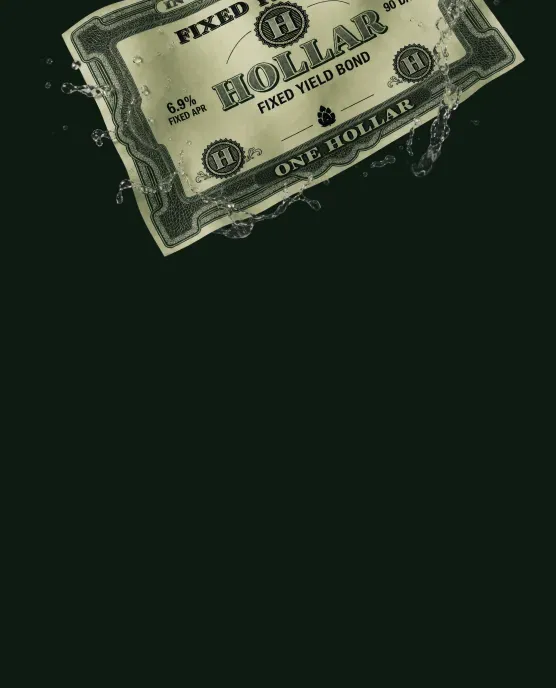
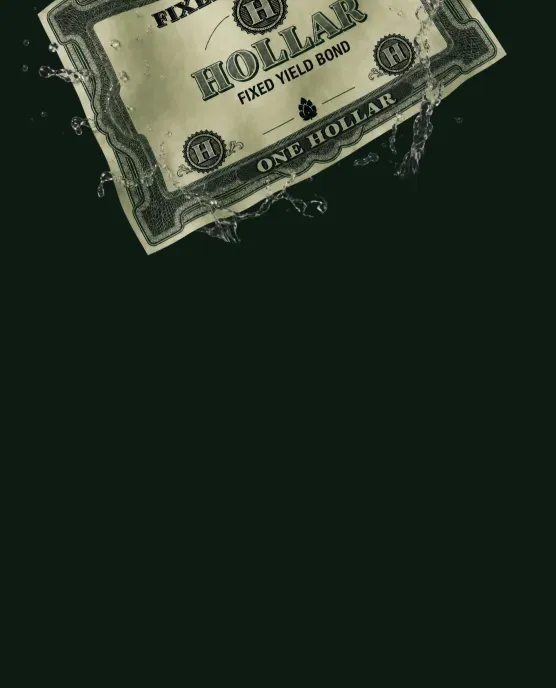
Merge pull request #3829 from galacticcouncil/chore/dynamic-apr
Stable Bonds dynamic APR

Pull request: Stable Bonds dynamic APR

Changed region(s): [[0.0612, 0.0, 0.9478, 0.3663]]

diff --git a/apps/main/src/components/GigaNews/GigaNews.tsx b/apps/main/src/components/GigaNews/GigaNews.tsx
@@ -1,16 +1,39 @@
 import { Close, Flame } from "@galacticcouncil/ui/assets/icons"
-import { Icon, MorphLabel, PromoteBanner } from "@galacticcouncil/ui/components"
+import {
+  Icon,
+  MorphLabel,
+  PromoteBanner,
+  PromoteBannerProps,
+} from "@galacticcouncil/ui/components"
+import { HOLLAR_BOND_25_08_26_ID } from "@galacticcouncil/utils"
 import { useNavigate } from "@tanstack/react-router"
 import { useCallback, useEffect, useRef, useState } from "react"
 import { useTranslation } from "react-i18next"
 
+import { useBondData } from "@/api/bonds"
 import {
   SGigaNewsContainer,
   SGigaNewsToggleButton,
   SStackLayer,
   SStackRoot,
 } from "@/components/GigaNews/GigaNews.styled"
+import { getBondApr } from "@/modules/strategies/stable-bonds/utils/apr"
 import { useBannersStore, useEnabledBanners } from "@/states/banners"
+
+const HollarBondBanner: React.FC<PromoteBannerProps> = ({ item }) => {
+  const { t } = useTranslation("common")
+  const { timeLeft } = useBondData(HOLLAR_BOND_25_08_26_ID)
+  const apr = getBondApr(HOLLAR_BOND_25_08_26_ID, timeLeft)
+  return (
+    <PromoteBanner
+      item={{
+        ...item,
+        title: t("banners.hollarb.title"),
+        description: apr ? t("banners.hollarb.description", { apr }) : "",
+      }}
+    />
+  )
+}
 
 export const GigaNews = ({ isHidden }: { isHidden: boolean }) => {
   const { t } = useTranslation("common")
@@ -76,21 +99,25 @@ export const GigaNews = ({ isHidden }: { isHidden: boolean }) => {
               banner.onClose?.()
             }
 
+            const item = {
+              ...banner,
+              onClose: depth === 0 ? onClose : undefined,
+              ...(banner.to
+                ? {
+                    onCta: () => {
+                      navigate({ to: banner.to })
+                    },
+                  }
+                : {}),
+            }
+
             return (
               <SStackLayer key={banner.id} $depth={depth}>
-                <PromoteBanner
-                  item={{
-                    ...banner,
-                    onClose: depth === 0 ? onClose : undefined,
-                    ...(banner.to
-                      ? {
-                          onCta: () => {
-                            navigate({ to: banner.to })
-                          },
-                        }
-                      : {}),
-                  }}
-                />
+                {banner.id === "hollarb" ? (
+                  <HollarBondBanner item={item} />
+                ) : (
+                  <PromoteBanner item={item} />
+                )}
               </SStackLayer>
             )
           })}

diff --git a/apps/main/src/modules/strategies/stable-bonds/components/StableBondsAbout.tsx b/apps/main/src/modules/strategies/stable-bonds/components/StableBondsAbout.tsx
@@ -4,27 +4,32 @@ import {
   SectionHeader,
   Separator,
 } from "@galacticcouncil/ui/components"
+import { millisecondsInDay } from "date-fns/constants"
 import { useTranslation } from "react-i18next"
 
+import { useBondData } from "@/api/bonds"
 import { Markdown } from "@/components/Markdown"
 import { useStableBondsConfig } from "@/modules/strategies/stable-bonds/context/StableBondsConfigContext"
+import { getBondApr } from "@/modules/strategies/stable-bonds/utils/apr"
 import { useAssets } from "@/providers/assetsProvider"
 
 export const StableBondsAbout: React.FC<PaperProps> = (props) => {
-  const { t } = useTranslation("strategies")
+  const { t } = useTranslation(["common", "strategies"])
   const config = useStableBondsConfig()
   const { getBond, getAssetWithFallback } = useAssets()
   const bond = getBond(config.bondId)
+  const { timeLeft } = useBondData(config.bondId)
 
   if (!config.contentId || !bond) return null
 
   const underlyingAsset = getAssetWithFallback(bond.underlyingAssetId)
+  const apr = getBondApr(config.bondId, timeLeft)
 
   return (
     <Paper p="xl" {...props}>
       <SectionHeader
-        title={t("about.title", {
-          suffix: t("bonds.title.stableYieldBonds", {
+        title={t("strategies:about.title", {
+          suffix: t("strategies:bonds.title.stableYieldBonds", {
             symbol: underlyingAsset.symbol,
           }),
         })}
@@ -32,7 +37,21 @@ export const StableBondsAbout: React.FC<PaperProps> = (props) => {
         noTopPadding
       />
       <Separator mx="-xl" mb="xl" />
-      <Markdown id={config.contentId} muted size="small" />
+      <Markdown
+        id={config.contentId}
+        muted
+        size="small"
+        values={{
+          daysLeft: t("interval", {
+            value: timeLeft,
+            largest: 1,
+            ...(timeLeft > millisecondsInDay && { unit: "d" }),
+          }),
+          apr: apr
+            ? t("common:percent", { value: apr, minimumFractionDigits: 2 })
+            : "",
+        }}
+      />
     </Paper>
   )
 }

diff --git a/apps/main/src/modules/strategies/stable-bonds/utils/apr.ts b/apps/main/src/modules/strategies/stable-bonds/utils/apr.ts
@@ -1,0 +1,15 @@
+import { daysInYear, millisecondsInDay } from "date-fns/constants"
+
+import { STABLE_BONDS } from "@/modules/strategies/stable-bonds/config/bonds"
+
+export const getBondApr = (
+  bondId: string,
+  timeLeftMs: number,
+): number | null => {
+  const config = STABLE_BONDS[bondId]
+  if (!config) return null
+  const { fixedYield } = config
+  const daysLeft =
+    timeLeftMs > 0 ? Math.ceil(timeLeftMs / millisecondsInDay) : 0
+  return daysLeft > 0 ? (fixedYield / daysLeft) * daysInYear : null
+}

diff --git a/apps/main/src/states/banners.ts b/apps/main/src/states/banners.ts
@@ -7,7 +7,7 @@ import { LINKS } from "@/config/navigation"
 import { useHasFillableStableBondsOrders } from "@/modules/strategies/stable-bonds/hooks/useStableBondsOtcOrders"
 import { useRpcProvider } from "@/providers/rpcProvider"
 
-type BannerConfig = PromoteBannerItem & {
+export type BannerConfig = PromoteBannerItem & {
   to?: string
   priority: number
   enabled: boolean
@@ -18,8 +18,8 @@ const bannerEntries: BannerConfig[] = [
     id: "hollarb",
     backgroundImage: "/images/hollarb.webp",
     backgroundImageMobile: "/images/hollarbMobile.webp",
-    title: "Introducing fixed yield Hollar bonds",
-    description: "Earn 6.9% APR with fixed-term HOLLAR bonds.",
+    title: "banners.hollarb.title",
+    description: "banners.hollarb.description",
     textColor: "#FFF",
     ctaColor: "#B3D7FA",
     ctaTextColor: "#0D1525",

diff --git a/apps/main/src/components/Markdown/Markdown.tsx b/apps/main/src/components/Markdown/Markdown.tsx
@@ -14,9 +14,10 @@ import { mdx } from "@/i18n/content"
 
 export type MarkdownProps = ProseProps & {
   id: string
+  values?: Record<string, string | number>
 }
 
-export const Markdown: React.FC<MarkdownProps> = ({ id, ...props }) => {
+export const Markdown: React.FC<MarkdownProps> = ({ id, values, ...props }) => {
   const { i18n } = useTranslation()
   const locale = i18n.language
 
@@ -47,7 +48,7 @@ export const Markdown: React.FC<MarkdownProps> = ({ id, ...props }) => {
               ),
           }}
         >
-          <Mdx />
+          <Mdx {...values} />
         </MDXProvider>
       </Prose>
     </Suspense>

diff --git a/apps/main/src/modules/strategies/stable-bonds/components/StableBondsDeposit.tsx b/apps/main/src/modules/strategies/stable-bonds/components/StableBondsDeposit.tsx
@@ -54,8 +54,8 @@ export const StableBondsDeposit: React.FC<StableBondsDepositProps> = ({
   const rpc = useRpcProvider()
   const submit = useSubmitStableBondsOrder()
   const { getAssetWithFallback } = useAssets()
-  const stableBond = useStableBondsConfig()
-  const { timeLeft } = useBondData(stableBond.bondId)
+  const config = useStableBondsConfig()
+  const { timeLeft } = useBondData(config.bondId)
 
   const { data: feePct = "0", isPending: isFeePending } = useQuery(
     otcTradeFeeQuery(rpc),

diff --git a/apps/main/src/modules/strategies/stable-bonds/components/StableBondsDetails.tsx b/apps/main/src/modules/strategies/stable-bonds/components/StableBondsDetails.tsx
@@ -24,6 +24,7 @@ import {
   SStatsGroup,
 } from "@/modules/strategies/stable-bonds/components/StableBondsDetails.styled"
 import { useStableBondsConfig } from "@/modules/strategies/stable-bonds/context/StableBondsConfigContext"
+import { getBondApr } from "@/modules/strategies/stable-bonds/utils/apr"
 import { OtcOffer } from "@/modules/trade/otc/table/OtcTable.query"
 
 export type StableBondsDetailsProps = {
@@ -37,8 +38,7 @@ export const StableBondsDetails: React.FC<StableBondsDetailsProps> = ({
   const config = useStableBondsConfig()
   const { timeLeft } = useBondData(config.bondId)
 
-  const daysLeft = timeLeft > 0 ? Math.ceil(timeLeft / millisecondsInDay) : 0
-  const currentApr = daysLeft > 0 ? (config.fixedYield / daysLeft) * 365 : null
+  const currentApr = getBondApr(config.bondId, timeLeft)
 
   return (
     <Paper p="l">